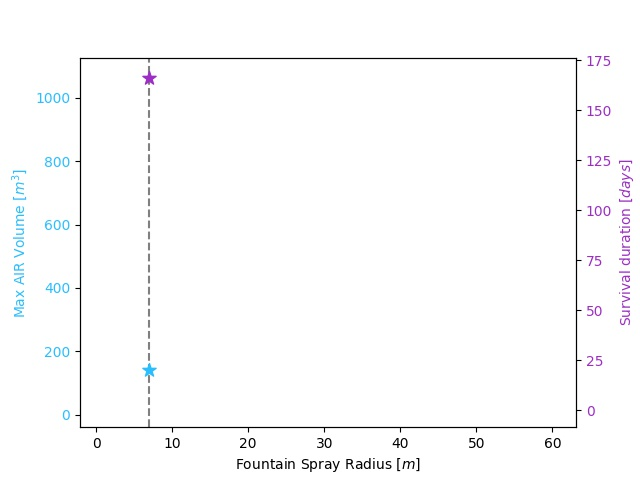
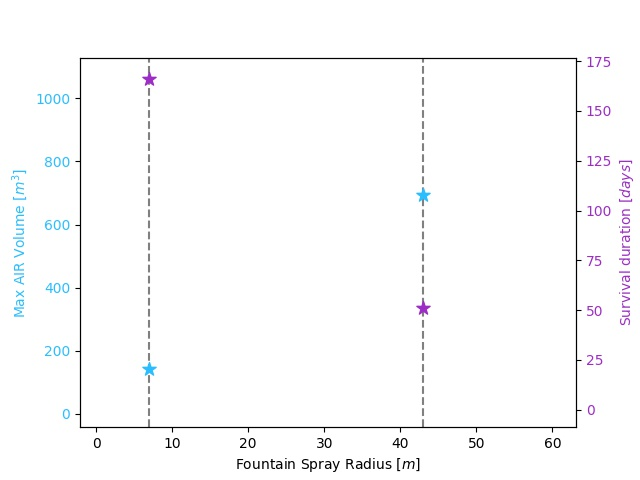
prepare rad sim

diff --git a/src/utils/plot_rad_sims.py b/src/utils/plot_rad_sims.py
@@ -53,6 +53,21 @@ if __name__ == "__main__":
             marker="*",
             zorder=10,
         )
+        ax.axvline(
+            x=43,
+            color="grey",
+            linestyle="--",
+            zorder=0,
+            # label="Guttannen Spray radius",
+        )
+        ax.scatter(
+            43,
+            df.loc[df.rad == 43].maxV,
+            s=100,
+            color=CB91_Blue,
+            marker="*",
+            zorder=10,
+        )
         ax.scatter(
             x,
             y1,
@@ -68,6 +83,13 @@ if __name__ == "__main__":
         axt.scatter(
             7,
             df.loc[df.rad == 7].days,
+            s=100,
+            color=CB91_Purple,
+            marker="*",
+        )
+        axt.scatter(
+            43,
+            df.loc[df.rad == 43].days,
             s=100,
             color=CB91_Purple,
             marker="*",
